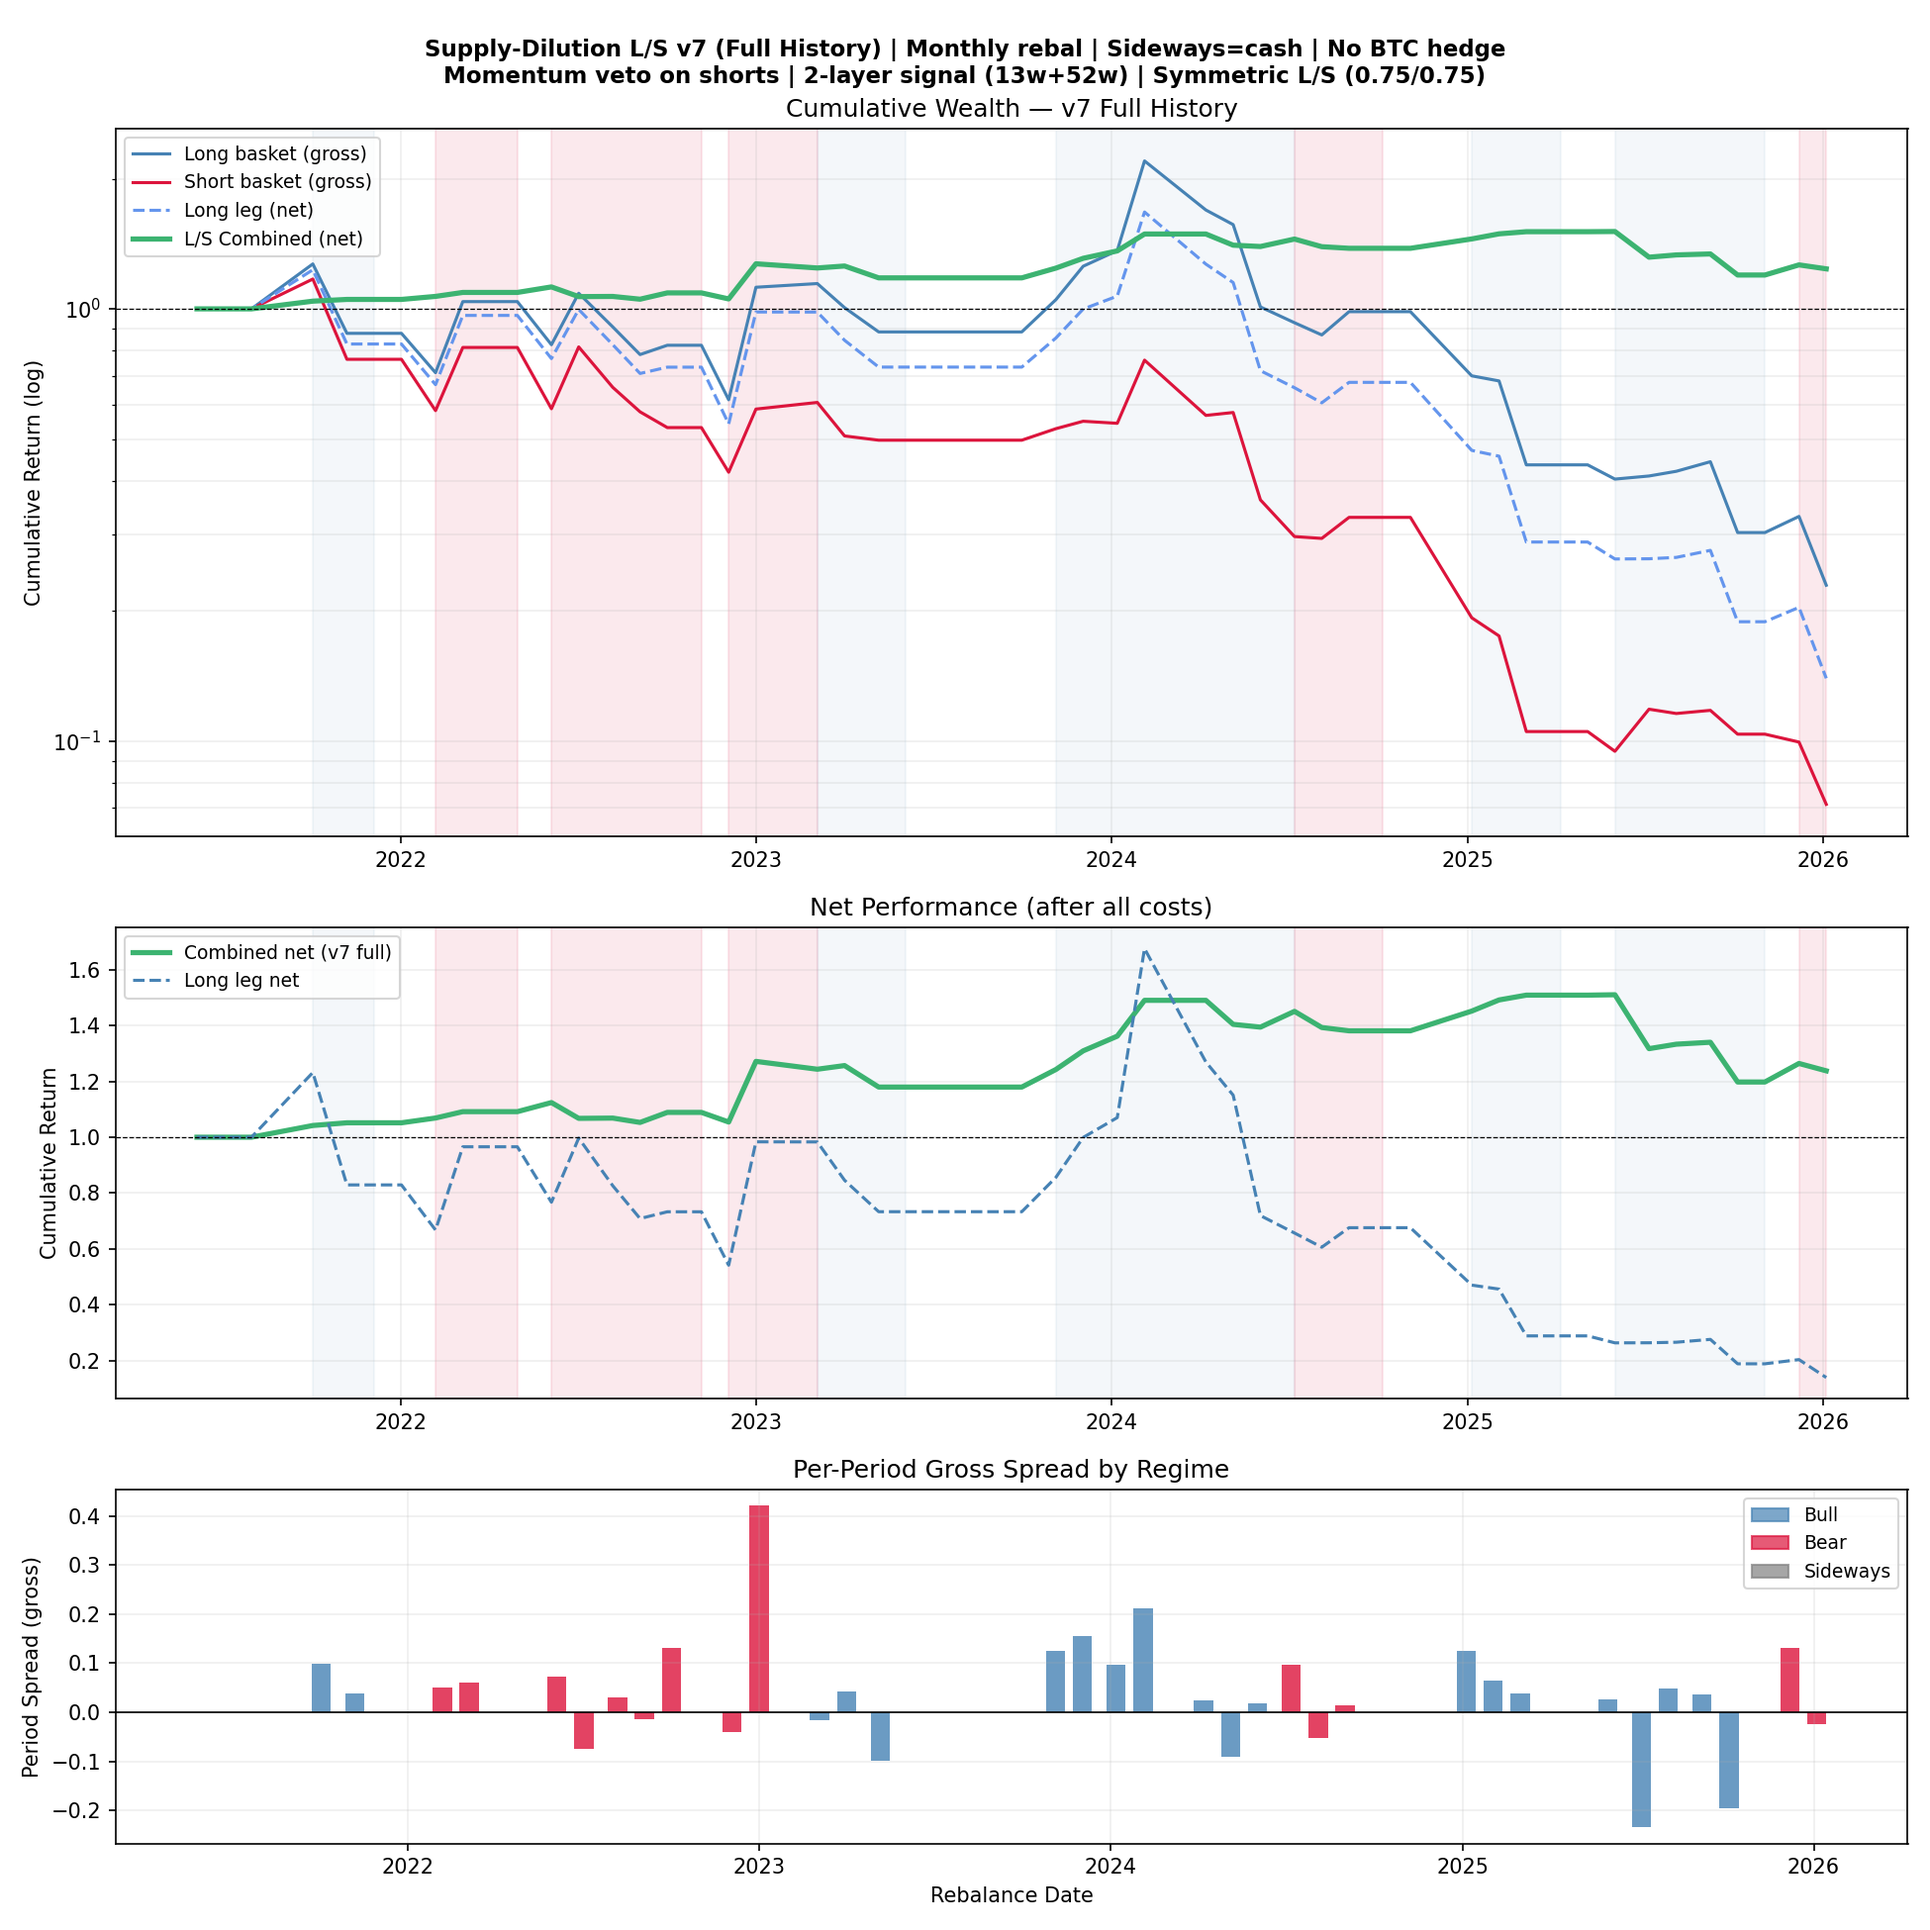
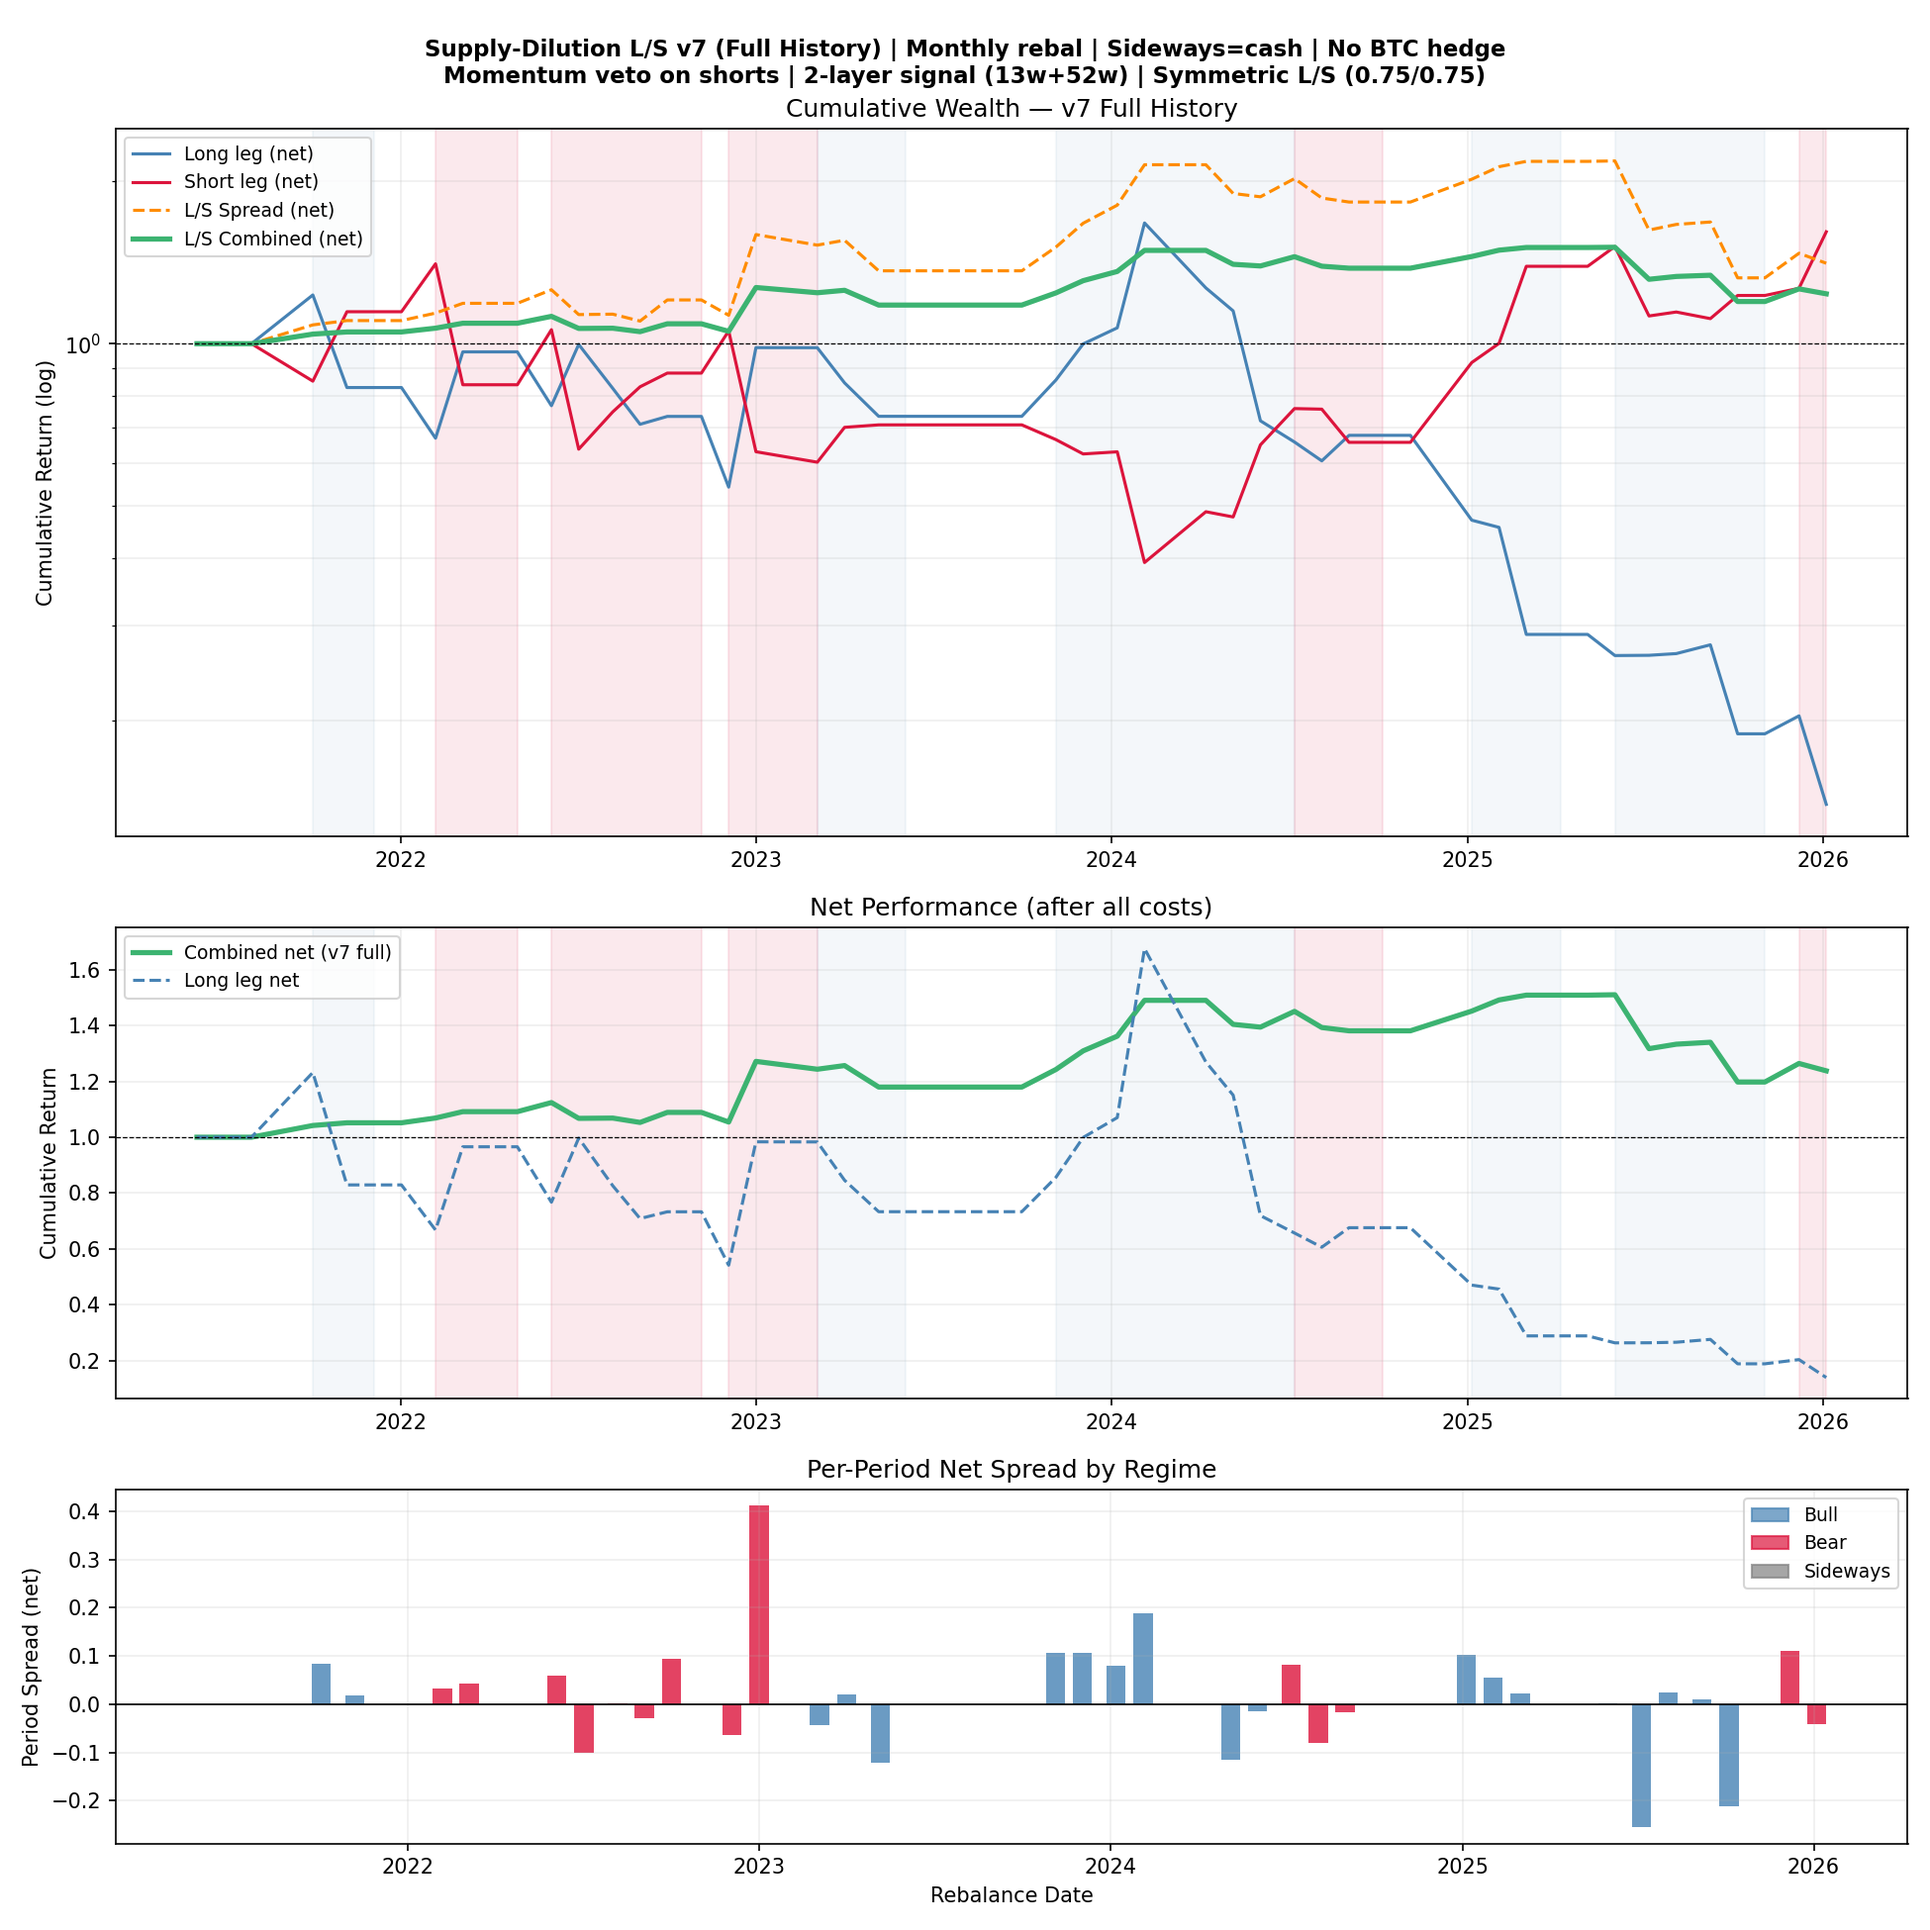
Switch all v7_full outputs to net — remove gross from report and charts
- Performance table: removed Long/Short gross rows; added L/S Spread (net)
  alongside Long net, Short net, Combined net
- Win rate, mean spread, regime table: all now on net spread basis
- Cumulative chart: replaced gross lines with Long net / Short net /
  Spread net / Combined net (all after fees, slippage, funding)
- Per-period bar chart: switched from gross spread to net spread
- Added spread_net series to run_backtest return dict

Net spread vs gross spread reveals true cost impact:
  Mean period spread: gross +2.58% -> net +1.10% (-148 bps from costs)
  Bear geo spread:    gross +81.9% -> net +41.8%  (slippage dominant drag)
  Bull geo spread:    gross +26.3% -> net  -3.8%  (costs consume Bull alpha)

diff --git a/perpetual_ls_v7_full.py b/perpetual_ls_v7_full.py
@@ -753,6 +753,9 @@ def run_backtest(df: pd.DataFrame, regime_df: pd.DataFrame,
         spread_gross      = pd.Series(
             [lg - sg for lg, sg in zip(long_gross_l, short_gross_l)],
             index=idx, name="Spread Gross"),
+        spread_net        = pd.Series(
+            [ln + sn for ln, sn in zip(long_net_l, short_net_l)],
+            index=idx, name="Spread Net"),
         basket_sizes      = basket_sizes_l,
         regime            = regime_out_l,
         scale             = scale_out_l,
@@ -819,11 +822,10 @@ def print_report(res: dict) -> None:
           f"{'Sharpe':>7} {'Sharpe*':>8} {'Sortino':>8} {'MaxDD':>9}")
     print("  " + "-" * 78)
     for name, s in [
-        ("Long basket  (gross)",  res["long_gross"]),
-        ("Short basket (gross)",  res["short_gross"]),
-        ("Long leg     (net)",    res["long_net"]),
-        ("Short leg    (net)^",   res["short_net"]),
-        ("L/S Combined (net)",    res["combined_net"]),
+        ("Long leg     (net)",  res["long_net"]),
+        ("Short leg    (net)^", res["short_net"]),
+        ("L/S Spread   (net)",  res["spread_net"]),
+        ("L/S Combined (net)",  res["combined_net"]),
     ]:
         st = portfolio_stats(s)
         print(f"  {name:<34} {_fmt(st['ann_return']):>9} {_fmt(st['vol']):>9} "
@@ -831,14 +833,14 @@ def print_report(res: dict) -> None:
               f"{_fmtf(st['sortino']):>8} {_fmt(st['max_dd']):>9}")
     print("  * Lo (2002) HAC-corrected Sharpe   ^ Short net: +ve = profit for short")
 
-    sp = res["spread_gross"]
-    print(f"\n  Win rate (Long > Short, gross) : {(sp>0).sum()}/{len(sp)} ({(sp>0).mean():.1%})")
-    print(f"  Mean period spread (gross)     : {sp.mean():.2%}")
+    sp = res["spread_net"]
+    print(f"\n  Win rate (Long > Short, net)   : {(sp>0).sum()}/{len(sp)} ({(sp>0).mean():.1%})")
+    print(f"  Mean period spread (net)       : {sp.mean():.2%}")
     print(f"  Spread ann. vol                : {_fmt(portfolio_stats(sp)['vol'])}")
     print(f"  Spread excess kurtosis         : {sp.kurtosis():.2f}")
     print(f"  Spread skewness                : {sp.skew():.2f}")
 
-    print(f"\n  --- Regime-Conditional Spread (gross) ---")
+    print(f"\n  --- Regime-Conditional Spread (net) ---")
     print(f"  {'Regime':<12} {'N':>4} {'Mean Spread':>13} {'Win Rate':>10} "
           f"{'Ann.Geo.Spread':>16}")
     for regime in ["Bull", "Bear", "Sideways"]:
@@ -1088,7 +1090,7 @@ def plot_results(res: dict) -> None:
         elif start and prev == "Bull":
             ax.axvspan(start, res["dates"][-1], alpha=0.06, color="steelblue", zorder=0)
 
-    sp   = res["spread_gross"]
+    sp   = res["spread_net"]
     regs = np.array(res["regime"])
     rc   = {"Bull": "steelblue", "Bear": "crimson", "Sideways": "gray"}
 
@@ -1102,9 +1104,9 @@ def plot_results(res: dict) -> None:
 
     ax = axes[0]
     for series, color, lw, ls, label in [
-        (res["long_gross"],  "steelblue",      1.5, "-",  "Long basket (gross)"),
-        (res["short_gross"], "crimson",          1.5, "-",  "Short basket (gross)"),
-        (res["long_net"],    "cornflowerblue",  1.5, "--", "Long leg (net)"),
+        (res["long_net"],    "steelblue",       1.5, "-",  "Long leg (net)"),
+        (res["short_net"],   "crimson",          1.5, "-",  "Short leg (net)"),
+        (res["spread_net"],  "darkorange",       1.5, "--", "L/S Spread (net)"),
         (res["combined_net"],"mediumseagreen",  2.5, "-",  "L/S Combined (net)"),
     ]:
         cum = (1 + series.dropna()).cumprod()
@@ -1131,8 +1133,8 @@ def plot_results(res: dict) -> None:
     ax3.bar(sp.index, sp.values, color=bar_cols, width=20, alpha=0.8)
     ax3.axhline(0, color="black", lw=0.8)
     ax3.legend(handles=[Patch(color=c, alpha=0.7, label=l) for l, c in rc.items()], fontsize=9)
-    ax3.set_ylabel("Period Spread (gross)"); ax3.set_xlabel("Rebalance Date")
-    ax3.set_title("Per-Period Gross Spread by Regime")
+    ax3.set_ylabel("Period Spread (net)"); ax3.set_xlabel("Rebalance Date")
+    ax3.set_title("Per-Period Net Spread by Regime")
     ax3.grid(True, alpha=0.2)
     fig.tight_layout()
     out1 = OUTPUT_DIR + "perp_ls_v7_full_cumulative.png"
